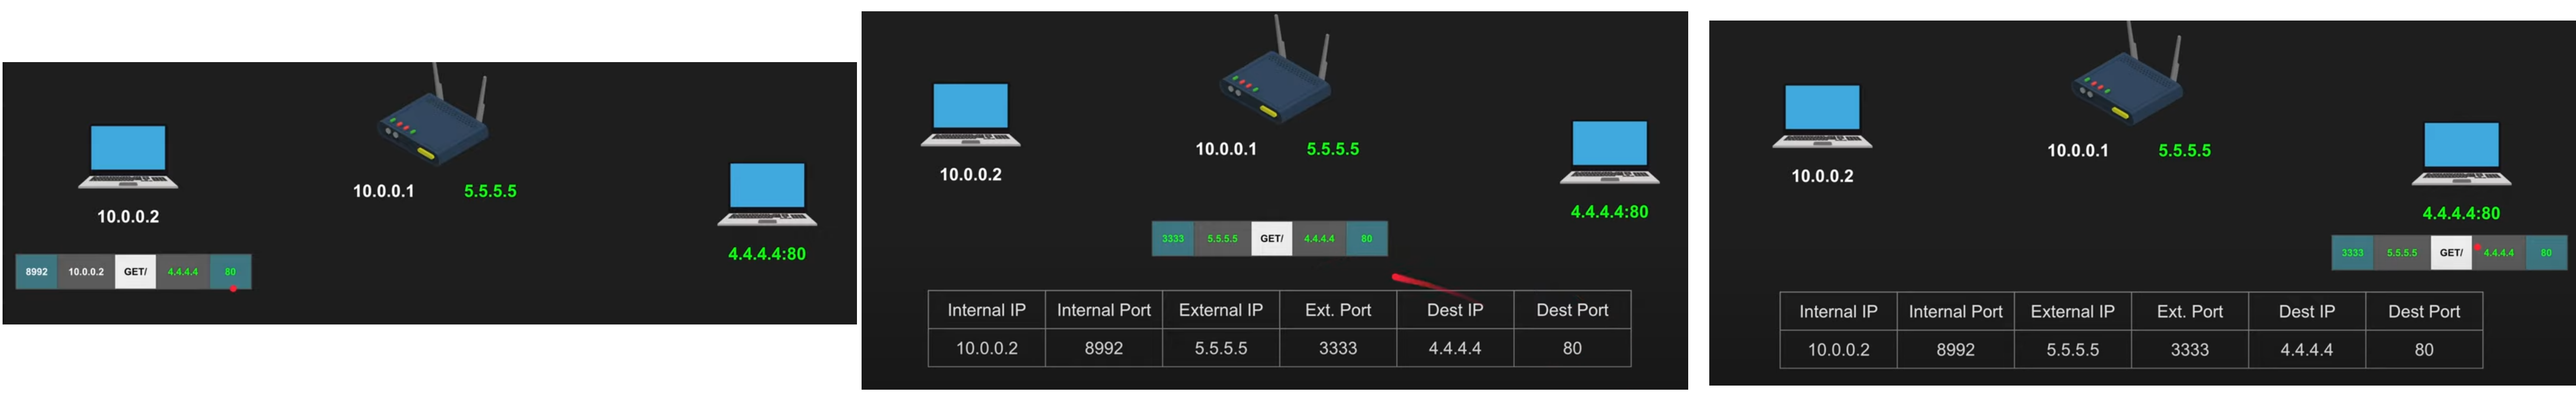
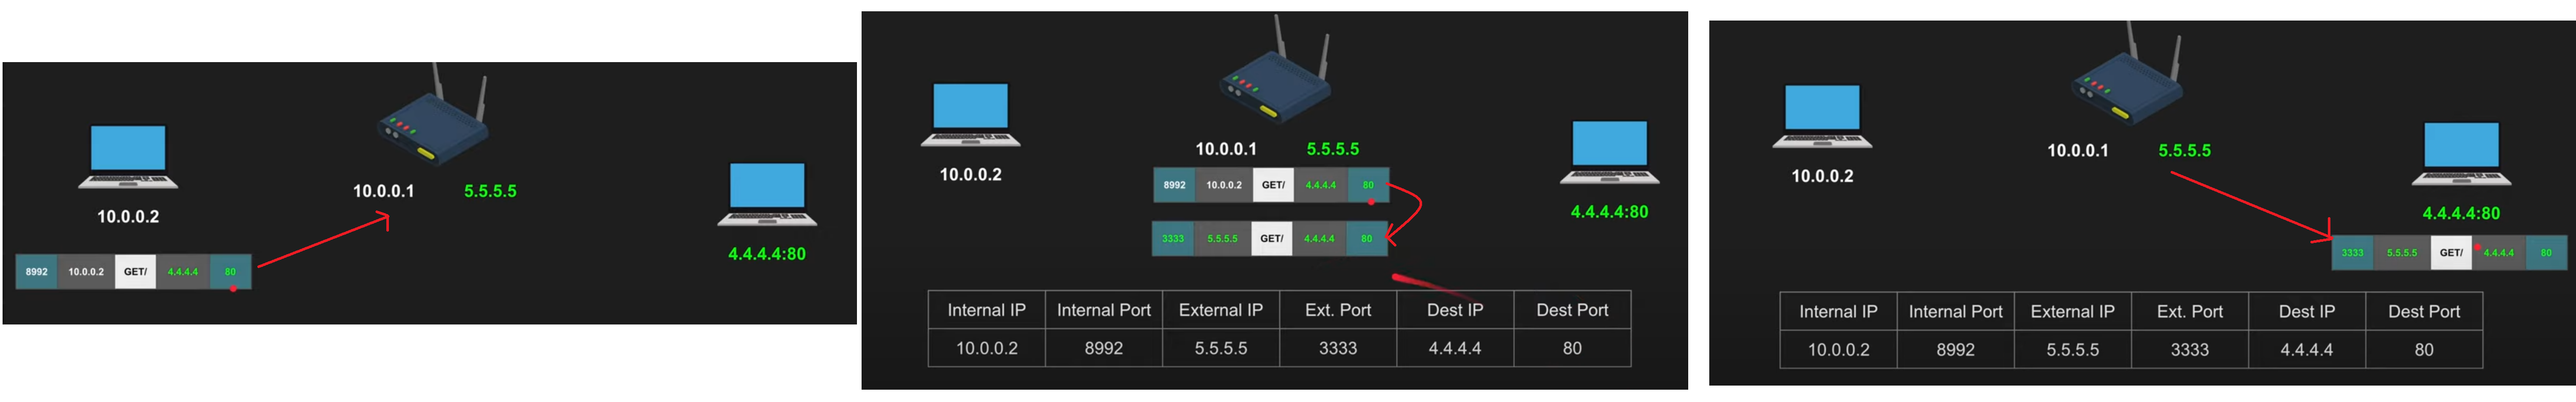
worked on WEB_RTC

Changed region(s): [[0.4356, 0.3985, 0.56, 0.5211], [0.1245, 0.5517, 0.1556, 0.5824]]

diff --git a/HighLevelDesign/Protocols/README.md b/HighLevelDesign/Protocols/README.md
@@ -12,11 +12,12 @@
 
 ## Network Address Translation ( NAT )
 - If the public IP address is exposed without a `firewall`, hackers can start sending malicious packets and target the device, it is possible to use public IP with a firewall for better protection
-- But when we have large number of devices, assigning public IPs for each of the devices and setting up Firewall rules would be a hassle
-- Thus people use NAT (on the `router`) which acts as an extra layer of protection.
-- The device connected to the router get a local IP address, and the NAT public IP (Routers Public IP) would be exposed (and the `NAT public IP will be assigned a firewall`)
+- But when we have large number of devices, assigning public IPs for each of the devices and setting up Firewall rules (and maintain consistency of rules across the devices) would be a hassle
+- Thus people use NAT (on the `router`) which acts as an extra layer of protection. (setup Firewall and maintain at a single place )
+- The device connected to the router get a local IP address (which remains hidden from the public network), and the NAT public IP (Routers Public IP) would be exposed (and the `NAT public IP will be assigned a firewall`)
+- Remember each router decides only about the interface used to route the packet
 
-- Interface:  Each endpoint which can be assigned an IP in the network (Ethernet port)  (A WIFI connection => 2 end points), switches don't have an IP they use MAC addresses(physical addresses) to forward the packets
+- `Interface:`  Each endpoint which can be assigned an IP in the network (Ethernet port)  (A WIFI connection => 2 end points), switches don't have an IP they use MAC addresses(physical addresses) to forward the packets
 
 <div style="display: flex; justify-content: center; flex-direction: column;">
     <img src="./WEB_RTC/images/NAT.png" alt="Windows">
@@ -28,15 +29,51 @@
 ### How packets are sent over NAT
 - consider that the client is sending a get request to the server, and it responds with the data and status (200 OK)
 - when we send a packet, we first check if the IP belongs to the same subnet using the subnet mask. If the IP doesn't belong to the same subnet then the Router forwards the packet into the public network
-- when forwarding the packet the router replaces the sender's details(port, IP) with a random port and its public IP, and this `mapping is stored in the NAT table`
+- when forwarding the packet the router replaces the sender's details(device port, device local IP) with a `random port`  and its `public NAT IP`, and this `mapping is stored in the NAT table`
+- The packet moves through different routers (mostly NAT configured) and switches and reaches the server 
 <div style="display: flex; justify-content: center; flex-direction: column;">
     <img src="./WEB_RTC/images/NAT_FORWARDING.png" alt="Windows">
 </div>
-- The response (200 OK) from the server is sent to the routers public NAT configured interface's IP
+
+- Server responds with a success (200 OK) packet to the router `NAT configured IP` which travels through the public network and reaches the routers public NAT configured interface
+- The Router figures out the clients `private IP` using the `NAT Table`, and replaces the destantion IP with the client's `private IP`
+- Packet is then `routed` through the required interface based on the destination IP address, rest of the `forwarding` is done by the switch
+<div style="display: flex; justify-content: center; flex-direction: column;">
+    <img src="./WEB_RTC/images/ServerToClientNat.png" alt="Windows">
+</div>
+
+## NAT translation Types ( `Used by the Router` )
+The translation type, tells us about the filtering rules that the router follows when routing the packets, remember the routing is done based on Destination Port ( `Find the Private IP mapped to the assigned port in NAT table` )
+1. No filtering 
+2. IP based filtering
+3. IP + PORT based Filtering
+4. 
+### One to One NAT (full cone NAT)
+- Any packet incoming with the destination (IP, Port) as the `NAT Public IP + Port Assigned to Client  (5.5.5.5, 3333)` will be directed to the client `regardless of the Source (IP + Port)`. No need of establish a pre communication path way (No need to send the packets to the host/server first)
+- Best NAT type for peer to peer communication
+<div style="display: flex; justify-content: center; flex-direction: column;">
+    <img src="./WEB_RTC/images/OneToOneNat.png" alt="Windows">
+</div>
+
+### Address restircted NAT
+- Filter based on surce IP
+- Allow if communicated with the HOST/SERVER before, block the packet if the NAT table does not have an entry corresponding to the source IP and external IP
+- an entry is made in NAT table only when the client sends a packet to the host, thus to accept packets from a host, there must be some pre exisitng communication that happend before between client and host
+
+
+### Port restricted NAT
+
+### Symetric NAT
+> Symetric NAT requires additional Work to be done to support WEB RTC
+
+
 
 ## ( STUN )
-
+- Tells the device its public IP through NAT, 
+- send a request to STUN server through NAT configured router, The recived response packet from the STUN server will containt the public NAT IP advertised by the router  
 ## ( TURN )
+Traversal using `relays around NAT`
+- communicate with peers behind `Symetric NAT`
 
 ## ( ICE )
 
